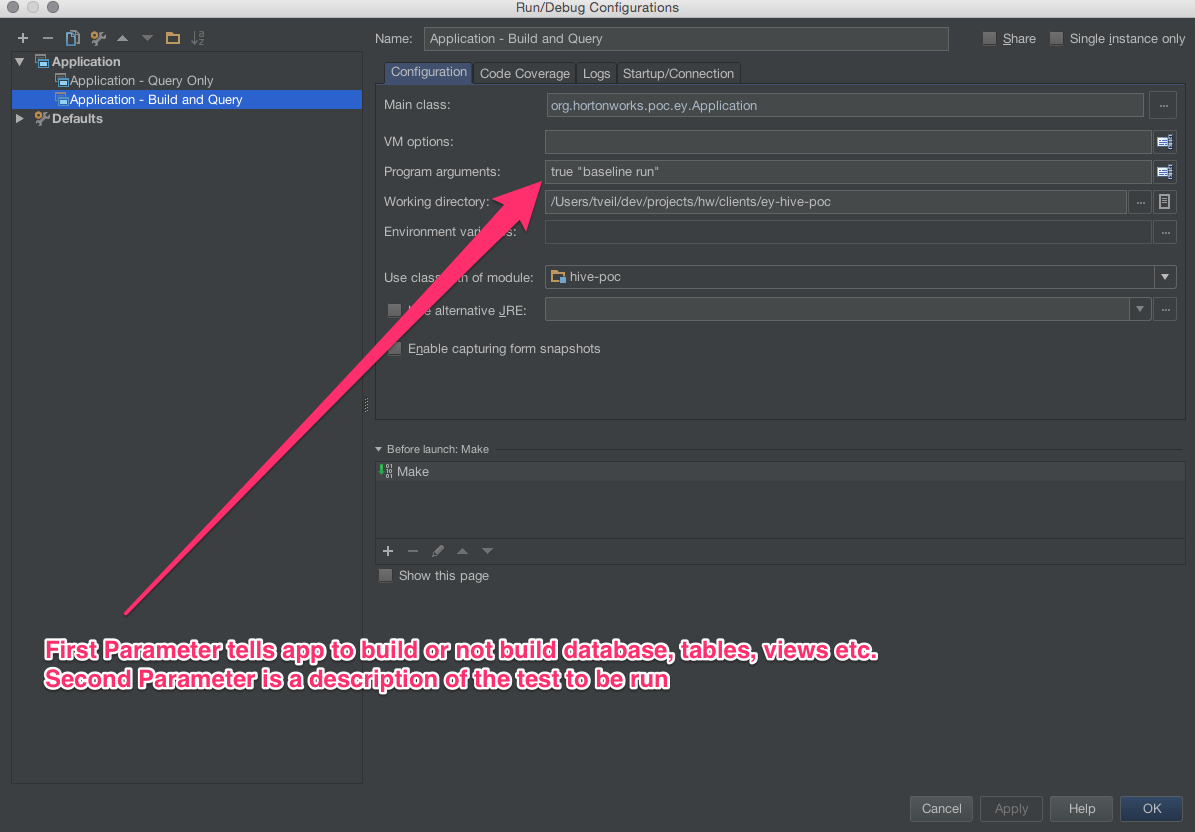
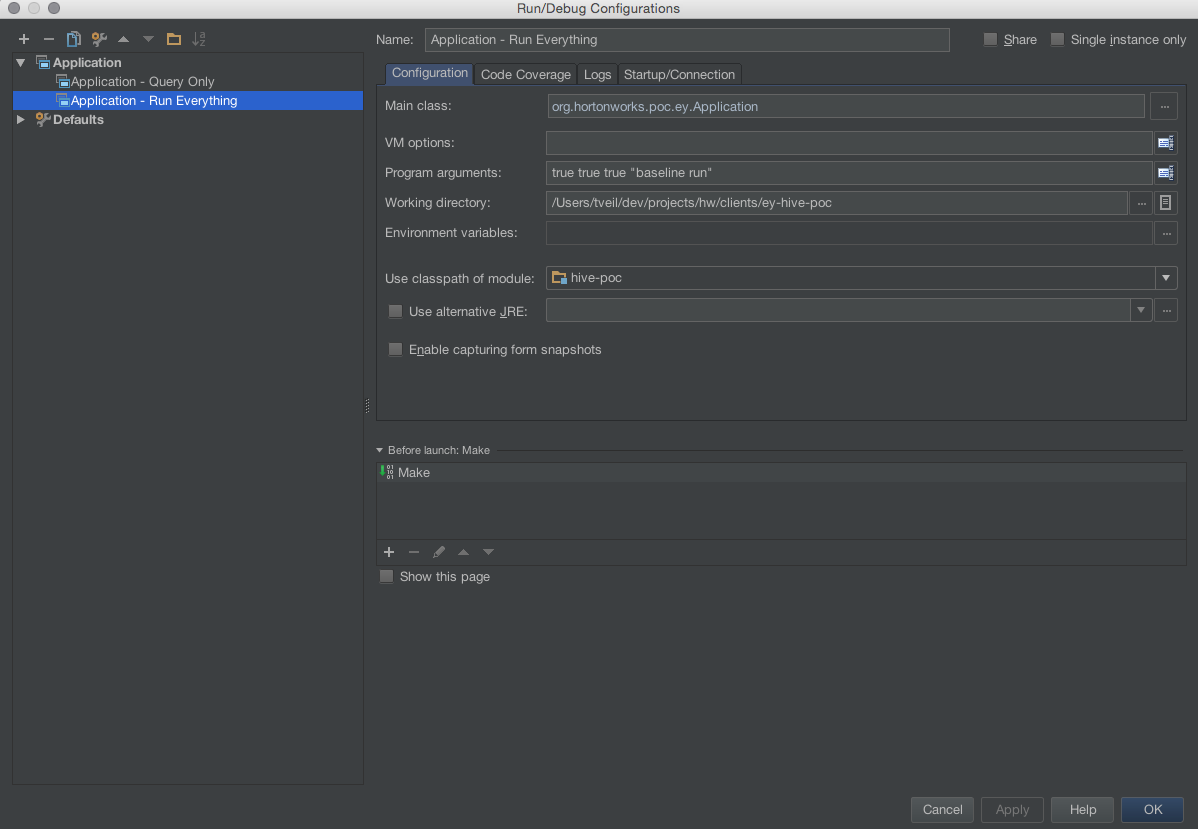
adding more params to make a bit easier to just build database when deploying to cluster

diff --git a/src/main/java/org/hortonworks/poc/ey/service/RunTest.java b/src/main/java/org/hortonworks/poc/ey/service/RunTest.java
@@ -27,43 +27,48 @@ public class RunTest implements CommandLineRunner {
     @Override
     public void run(String... args) throws Exception {
 
-        assert args != null && args.length == 2;
+        assert args != null && args.length == 3;
 
         final boolean build = Boolean.parseBoolean(args[0]);
-        final String description = args[1];
+        final boolean load = Boolean.parseBoolean(args[1]);
+        final boolean query = Boolean.parseBoolean(args[2]);
+        final String description = args[3];
 
 
         if (build) {
             proof.createDatabase();
-        }
-
-        if (build) {
             proof.buildTables();
             proof.buildViews();
+        }
+
+        if (load) {
             proof.loadData();
         }
 
-        String[] includeFilter = new String[]{
-           //"VW_GL016T2_Zero_Balance_GL.sql"
-        };
+        if (query) {
 
-        String[] excludeFilter = new String[]{
-                "VW_GL016T2_Zero_Balance_GL.sql",
-                "VW_GL015T1_Cutoff_Analysis.sql",
-                "VW_GL012T3_Date_Analysis.sql",
-                "VW_GL018T1_Overview.sql",
-                "VW_GL017T3_Transactions_By_Relationship.sql",
-                "VW_GL013T1_Back_Postings1.sql",
-                "VW_GL011_Relationship_Analyses.sql",
-                "VW_GL010_Gross_Margin.sql",
-                "v_IL_GL018_KPI_Overview.sql"
-        };
+            String[] includeFilter = new String[]{
+                    //"VW_GL016T2_Zero_Balance_GL.sql"
+            };
 
-        List<QueryResult> results = proof.executeQueries(includeFilter, excludeFilter);
+            String[] excludeFilter = new String[]{
+                    "VW_GL016T2_Zero_Balance_GL.sql",
+                    "VW_GL015T1_Cutoff_Analysis.sql",
+                    "VW_GL012T3_Date_Analysis.sql",
+                    "VW_GL018T1_Overview.sql",
+                    "VW_GL017T3_Transactions_By_Relationship.sql",
+                    "VW_GL013T1_Back_Postings1.sql",
+                    "VW_GL011_Relationship_Analyses.sql",
+                    "VW_GL010_Gross_Margin.sql",
+                    "v_IL_GL018_KPI_Overview.sql"
+            };
 
-        log.debug("Test Finished!  Writing results to file...");
+            List<QueryResult> results = proof.executeQueries(includeFilter, excludeFilter);
 
-        generateResultFile(description, results);
+            log.debug("Test Finished!  Writing results to file...");
+
+            generateResultFile(description, results);
+        }
 
     }
 

diff --git a/README.md b/README.md
@@ -19,11 +19,15 @@ The main method of `RunTest.java` can do the following:
 * Execute Queries
 * Output Results to CSV File
 
-The test requires two parameters be passed as `args` to the `main(String[] args)` method of `Application.java`:
+The test requires 4 parameters be passed as `args` to the `main(String[] args)` method of `Application.java`:
 
-1) The first `arg` should be `true` or `false` and indicates if you want the application to drop/create the database, build tables & views and load test data
+1) The first `arg` should be `true` or `false` and indicates if you want the application to drop/create the database, build tables & views
 
-2) The second `arg` is a description of the test being performed.  For example `'enabled tez'`, would indicate that this test was the first execution since enabling TEZ
+1) The second `arg` should be `true` or `false` and indicates if you want load data
+
+1) The third `arg` should be `true` or `false` and indicates if you want execute queries
+
+2) The forth `arg` is a description of the test being performed.  For example `"enabled tez"`, would indicate that this test was the first execution since enabling TEZ
 
 You can further refine the test by updating `String[] includeFilter` and `String[] excludeFilter` in `RunTest.java`.  This is a great way to test individual queries (use `includeFilter`) or eliminate problematic ones (use `excludeFilter`).
 
@@ -46,7 +50,6 @@ String[] excludeFilter = new String[]{
 
 You can run this locally with either IntelliJ or via the Command Line.
 
-
 ### Command Line
 
 From the project's base directory execute the following from the command line
@@ -56,11 +59,11 @@ From the project's base directory execute the following from the command line
 # builds the spring boot jar called hive-poc-0.0.1-SNAPSHOT.jar
 > mvn package clean
 
-# runs the spring boot jar.  must pass 2 parameters.
-> java -jar target/hive-poc-0.0.1-SNAPSHOT.jar [true|false] "[test description]"
+# runs the spring boot jar.  must pass 4 parameters.
+> java -jar target/hive-poc-0.0.1-SNAPSHOT.jar [true|false] [true|false] [true|false] "[test description]"
 
 # for example
-> java -jar target/hive-poc-0.0.1-SNAPSHOT.jar false "some test"
+> java -jar target/hive-poc-0.0.1-SNAPSHOT.jar true true true "some test"
 
 ```
 
